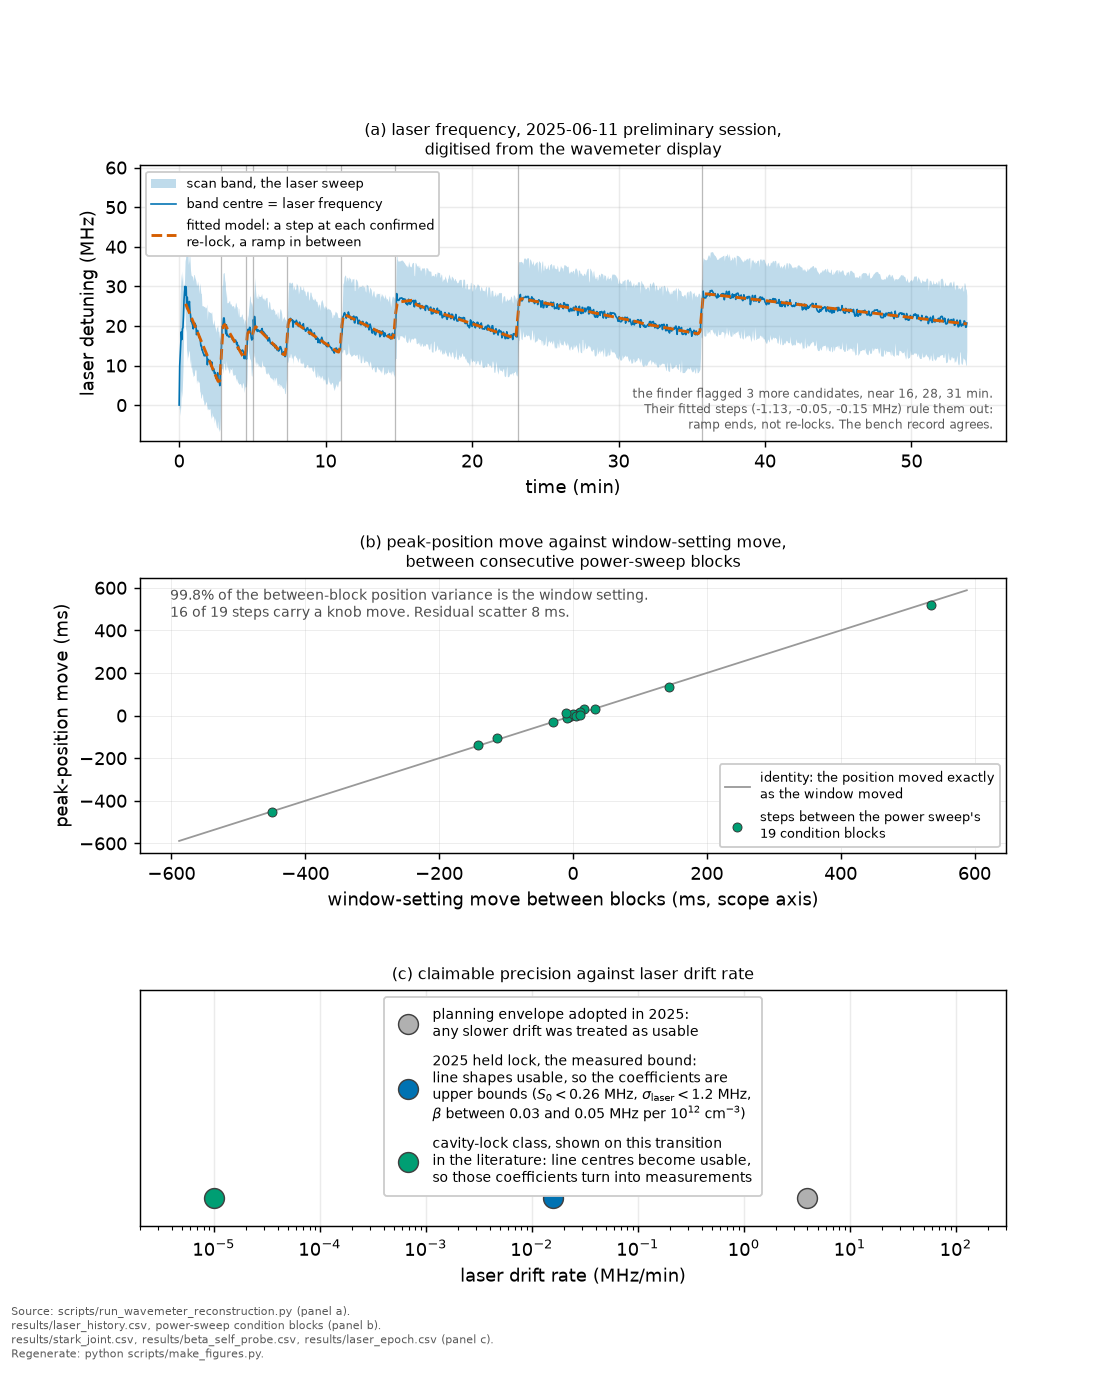
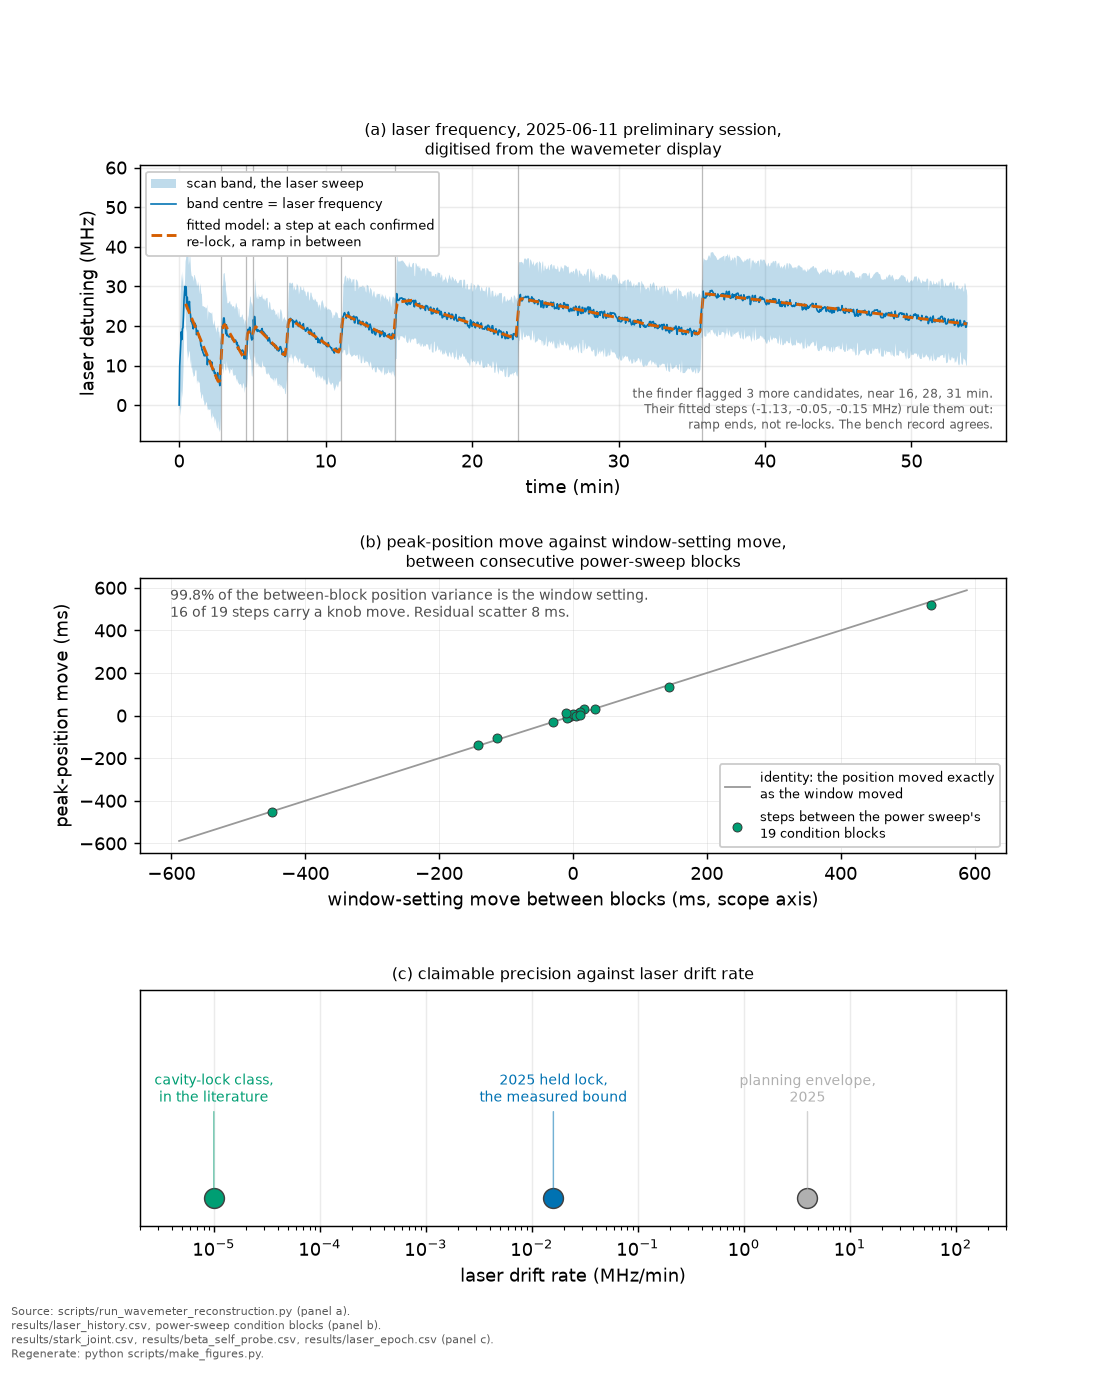
Correct a session-wide misdating, and make two figures say what they draw (archive ace92901)
Thirteen of the fourteen files were byte-identical to the archive at
baseline and were copied. tests/test_version_surface.py is divergent and
its one date was hand-carried. Zero 2026-08-15 remains in this tree.

Changed region(s): [[0.3345, 0.7177, 0.7299, 0.8737], [0.1521, 0.7801, 0.2433, 0.8113]]

diff --git a/scripts/make_figures.py b/scripts/make_figures.py
@@ -593,7 +593,7 @@ def fig_power_sweep():
     # anchored at axes-fraction 0.97 with no ylim set, so the axes autoscaled
     # to the data and the 993.4154 nm error bar at 25 mW (5.4927 +/- 0.0785,
     # so reaching 5.571) ran straight through the first line of it. Pixel
-    # inspection of the shipped PNG on 2026-08-15 found the whisker occupying
+    # inspection of the shipped PNG on 2026-08-14 found the whisker occupying
     # the same pixels as all three lines of the annotation. Three text lines at
     # 7.4 pt need roughly a fifth of this panel, so the top limit is lifted to
     # clear them instead of moving the text somewhere the data may grow into.
@@ -2575,6 +2575,12 @@ def fig_wavemeter_reconstruction():
     ax1.set_xlabel("time (min)")
     ax1.set_ylabel("laser detuning (MHz)")
     ax1.legend(loc="lower right", fontsize=7.5, frameon=True, framealpha=0.9)
+    # THE EVENT COUNT, computed at draw time from the drawn events. A frozen
+    # preregistration records that this panel prints it; it did not, and the
+    # frozen text is never edited, so the figure is what changes.
+    ax1.text(0.015, 0.03, f"{len(r['kick_times'])} confirmed re-locks",
+             transform=ax1.transAxes, fontsize=7.4, color="0.30",
+             ha="left", va="bottom")
     ax1.set_title("(b) the digitised record and the fitted sawtooth", fontsize=8.5)
 
     # Two records, two time origins, so two panels. They used to share one
@@ -2671,14 +2677,11 @@ def fig_drift_story():
     rows = [x for x in _csv.DictReader(open(C.RESULTS_DIR / "laser_history.csv"))
             if x["flag"] == "canonical" and x["offset_mhz"]]
 
-    s0 = float(next(x["value"] for x in _csv.DictReader(open(C.RESULTS_DIR / "stark_joint.csv"))
-                    if x["quantity"] == "S0_225mW_ub95"))
-    bvals = [float(x["bound95_nscale"]) for x in _csv.DictReader(open(C.RESULTS_DIR / "beta_self_probe.csv"))
-             if x.get("headline") == "yes"]
-    # laser_epoch.csv was normalised on 2026-08-10: value_MHz became value and
-    # the inequality left the numeric column for the unit field.
-    sl = float(next(x["value"] for x in _csv.DictReader(open(C.RESULTS_DIR / "laser_epoch.csv"))
-                    if x["quantity"] == "sigma_laser_bound"))
+    # S0, sigma_laser and the beta range were read here to be printed inside
+    # panel (c)'s legend. That legend is gone (it covered the very marker it
+    # described) and the three numbers now live in the caption, which quotes
+    # the same committed CSVs, so reading them here would be a computation
+    # with no consumer.
 
     fig = plt.figure(figsize=(8.6, 10.6))
     gs = fig.add_gridspec(3, 1, height_ratios=[1.4, 1.4, 1.2], hspace=0.52)
@@ -2772,24 +2775,31 @@ def fig_drift_story():
     # middle one. Both were caught by looking. A legend cannot collide with
     # anything, and what this panel has to show is that the three regimes sit
     # five decades apart, which the markers do on their own.
+    # SHORT labels only. Every number these used to carry ($S_0$, sigma_laser,
+    # beta) is committed in results/ and quoted by the caption, so nothing is
+    # lost by taking it off the canvas.
     regimes = [
-        (envelope_mhz_per_min, "#B0B0B0",
-         "planning envelope adopted in 2025:\nany slower drift was treated as usable"),
-        (drift, "#0072B2",
-         "2025 held lock, the measured bound:\nline shapes usable, so the coefficients are\n"
-         f"upper bounds ($S_0<{s0:.2f}$ MHz, "
-         f"$\\sigma_\\mathrm{{laser}}<{sl:.1f}$ MHz,\n"
-         f"$\\beta$ between {min(bvals):.2f} and {max(bvals):.2f} MHz per "
-         "$10^{12}$ cm$^{-3}$)"),
-        (ayachitula_mhz_per_min, "#009E73",
-         "cavity-lock class, shown on this transition\nin the literature: "
-         "line centres become usable,\nso those coefficients turn into measurements"),
+        (envelope_mhz_per_min, "#B0B0B0", "planning envelope,\n2025"),
+        (drift, "#0072B2", "2025 held lock,\nthe measured bound"),
+        (ayachitula_mhz_per_min, "#009E73", "cavity-lock class,\nin the literature"),
     ]
-    for rate, col, lab in regimes:
+    # THE LEGEND WAS THE COLLISION. The comment above said a legend cannot
+    # collide with anything; the shipped PNG showed otherwise, because three
+    # multi-line prose entries at upper-center grew into a box that covered
+    # the middle marker, which is the measured bound and the whole point of
+    # the panel. Prose in a legend is prose on the canvas. Replaced by three
+    # SHORT direct labels at ONE height, each over its own marker, with the
+    # full statement moved to the caption where a qualifier belongs. The
+    # markers are three decades apart on a log axis, so short labels centred
+    # on them cannot reach each other.
+    for rate, col, short in regimes:
         ax.plot([rate], [0.0], "o", ms=11, color=col, mec="0.25", mew=0.8,
-                zorder=3, label=lab)
-    ax.legend(fontsize=7.6, loc="upper center", frameon=True, framealpha=1.0,
-              handletextpad=0.8, labelspacing=0.9, borderpad=0.7)
+                zorder=3)
+        ax.annotate(short, xy=(rate, 0.0), xytext=(rate, 1.15),
+                    textcoords="data", ha="center", va="bottom",
+                    fontsize=7.6, color=col,
+                    arrowprops=dict(arrowstyle="-", color=col, lw=0.8,
+                                    alpha=0.55, shrinkA=1.0, shrinkB=5.0))
     ax.set_xscale("log")
     ax.set_xlim(2e-6, 300.0)
     # room above the markers for the legend, which sits over empty axis
@@ -3663,7 +3673,7 @@ def fig_magic_wavelengths():
     crossings = []
     for r in magic_rows:
         lam = float(r["value"])
-        # THE BAND COMES FROM ITS OWN COLUMNS. Until 2026-08-15 this parsed it
+        # THE BAND COMES FROM ITS OWN COLUMNS. Until 2026-08-14 this parsed it
         # out of the free-text `unit` field with
         #     re.search(r"16-84% band ([\d.]+)\.\.([\d.]+) nm", r["unit"])
         # and fell back to (lam, lam) when that failed. The uncertainty wave had

diff --git a/tests/test_package_surface.py b/tests/test_package_surface.py
@@ -21,7 +21,7 @@ keep both. `ingest.load_manifest`, `rate_model.load_clock` and
 0.0, which each says in its own docstring so that a checkout without a
 quality or ruler run behaves as it did before.
 
-Until 2026-08-15 `RepoDataMissing` had no call site outside `config` at all,
+Until 2026-08-14 `RepoDataMissing` had no call site outside `config` at all,
 while three documents said otherwise, and the only test here exercised
 `require_repo_data` in isolation, so nothing would have noticed.
 """
@@ -118,7 +118,7 @@ def test_the_pure_modules_import_without_the_data_modules():
 def test_the_required_data_loaders_name_the_cause(tmp_path, monkeypatch):
     """The three loaders that genuinely need the repository say so when it is absent.
 
-    Added 2026-08-15. Until then `RepoDataMissing` had no call site outside
+    Added 2026-08-14. Until then `RepoDataMissing` had no call site outside
     `config` itself, so `ingest.load_manifest` and `rate_model.load_clock`
     raised a bare FileNotFoundError naming a path inside site-packages, which
     is the outcome that error class was written to prevent. The claim that

diff --git a/tests/test_pipeline_order.py b/tests/test_pipeline_order.py
@@ -1,6 +1,6 @@
 """The one-command reproduction must be able to finish.
 
-WHY THIS EXISTS. On 2026-08-15 `bash scripts/run_all.sh` was run end to end in
+WHY THIS EXISTS. On 2026-08-14 `bash scripts/run_all.sh` was run end to end in
 an isolated worktree, from the committed traces, for the first time. It failed
 after 27 stages with `KeyError: 'status'` in `make_figures.py`, because the
 runner called the status annotator LAST while `make_figures.py` and
@@ -64,7 +64,7 @@ def test_the_annotator_runs_before_everything_that_reads_its_column():
             f"{ANNOTATOR} is invoked at position {ann} but {consumer} runs at "
             f"{idx[0]}, so a clean `bash scripts/run_all.sh` reaches {consumer} "
             f"with freshly written CSVs that have no status column yet. That is "
-            f"the KeyError: 'status' crash of 2026-08-15. Order:\n"
+            f"the KeyError: 'status' crash of 2026-08-14. Order:\n"
             + "\n".join(f"  {i}: {s}" for i, s in enumerate(lines)))
 
 

diff --git a/tests/test_docs_canonical.py b/tests/test_docs_canonical.py
@@ -867,7 +867,7 @@ def test_advertised_test_counts_match_the_real_suite():
              if abs(int(n) - total) / total > 0.05]
     # A count does not have to sit beside the word "test" to mislead a reader.
     # The runnable block in methods.md carried "# 1160 fast tests" and "full
-    # 1293 incl. slow closures" until 2026-08-15, by which time both had
+    # 1293 incl. slow closures" until 2026-08-14, by which time both had
     # drifted by a factor of 1.8, and neither matched the pattern above: one
     # puts an adjective between the number and the noun, the other names no
     # noun at all. Any number on a line that runs pytest is advertising what

diff --git a/tests/test_version_surface.py b/tests/test_version_surface.py
@@ -257,7 +257,7 @@ def test_the_metadata_version_is_the_released_version():
 def test_the_citation_date_moves_with_the_citation_version():
     """`date-released` is the third field of the same shape as the first two.
 
-    Found 2026-08-15. `version` had advanced 3.6.0, 3.7.0, 3.8.0 across three
+    Found 2026-08-14. `version` had advanced 3.6.0, 3.7.0, 3.8.0 across three
     tagged releases while `date-released` sat at '2026-08-09' throughout, so
     the field GitHub's "Cite this repository" panel shows, and any harvester
     reads, described the wrong day for two of them. Nothing compared the two

diff --git a/tests/test_docs_no_duplicated_blocks.py b/tests/test_docs_no_duplicated_blocks.py
@@ -20,7 +20,7 @@ are excluded from the count, and the threshold sits above the largest
 legitimate prose repeat measured across every tracked document rather than
 at some round number.
 
-MEASURED BEFORE CHOOSING THE THRESHOLD (2026-08-15, both repositories, 177
+MEASURED BEFORE CHOOSING THE THRESHOLD (2026-08-14, both repositories, 177
 tracked `.md` each): exactly three files contained a repeated block of four
 or more identical non-blank lines. START_HERE at twenty-two,
 PREREGISTRATION_RESULTS at eight, and the ruler preregistration at six, the

diff --git a/tests/test_constants.py b/tests/test_constants.py
@@ -26,7 +26,7 @@ def _label_gap_laser_hz(label_a: str, label_b: str) -> float:
 
 def test_natural_width_value():
     # 1 / (2 pi * 45.57 ns) = 3492537.7 Hz = 3.4925 MHz on the transition
-    # axis. This asserted 3.4926e6 until 2026-08-15, a rounding of the
+    # axis. This asserted 3.4926e6 until 2026-08-14, a rounding of the
     # fourth decimal in the wrong direction, and the 2e-4 tolerance was
     # loose enough to pass anyway, so the guard was pinning a value the
     # code never produced. Tightened tenfold so it pins the real one.

diff --git a/figures/README.md b/figures/README.md
@@ -66,7 +66,7 @@ support instead of a citing passage.
 | `fig14_wavemeter_reconstruction.png` | the 2025-06-11 wavemeter record, the sawtooth model fitted to it, and the resulting floor on unmodelled laser motion | `make_figures.py` | [APPARATUS.md](../docs/APPARATUS.md), [PREREGISTRATION_RESULTS.md](../docs/PREREGISTRATION_RESULTS.md) |
 | `fig15_drift_story.png` | the drift problem photographed, the campaign record reconstructed from its own traces, and what each drift regime licenses | `make_figures.py` | [README.md](../README.md), [PLAN.md](../docs/PLAN.md) |
 | `fig16_fit_gallery.png` | the brightest campaign trace of each component against the committed shared model, with residuals, four panels in one frame | `make_figures.py` | [README.md](../README.md) |
-| `fig17_magic_wavelengths.png` | the 5S and 6S polarizabilities and their difference, with the three zero crossings and each crossing's 16 to 84 per cent Monte Carlo band, printed as a bracket under the crossing and shaded on the axis. The three bands differ by more than a factor of ten in width, 1.67 nm at 1204 nm against 0.13 nm at 1340, so at this scale the shading is narrower than the crossing line and the bracket is the readable form. Until 2026-08-15 the brackets were drawn zero-width, because the producer parsed the band out of a free-text field the uncertainty wave had already emptied | `make_figures.py` | [README.md](../README.md) |
+| `fig17_magic_wavelengths.png` | the 5S and 6S polarizabilities and their difference, with the three zero crossings and each crossing's 16 to 84 per cent Monte Carlo band, printed as a bracket under the crossing and shaded on the axis. The three bands differ by more than a factor of ten in width, 1.67 nm at 1204 nm against 0.13 nm at 1340, so at this scale the shading is narrower than the crossing line and the bracket is the readable form | `make_figures.py` | [README.md](../README.md) |
 | `fig18_single_4121.png` | one full-page panel for the 993.4121 nm component: the same trace and shared model as fig16, with a parameter box naming every number as shared or per-trace. The model is a Lorentzian core, natural plus collisional, convolved with a Gaussian envelope set by the laser line width and the transit time, with the detector's saturation included. The shared block holds at the widths common to the whole campaign, and only this trace's amplitude, centre and background are refit. Reading the box: a shared laser width is shared by every trace taken at this temperature in one session and the shared fit publishes no separate uncertainty for it, the same goes for the shared collisional width, the transit width is held fixed at the value the assumed geometry implies because the beam waist has not been measured, the fitted centre is on this trace's own scan axis whose origin is arbitrary, and where the reduced chi-squared falls below one the per-point noise assumed in the fit is conservative so the uncertainties beneath it are upper bounds | `make_figures.py` | deliberately not embedded. It is a sibling of `fig18_single_4192.png`, which [methods/04_the_composite_model.md](../docs/methods/04_the_composite_model.md) shows for one peak. Showing all four in the chapter would repeat the same statement four times, and a reader checking that the shape holds on the other peaks wants the files rather than the prose. Supports the composite lineshape model of [methods/04_the_composite_model.md](../docs/methods/04_the_composite_model.md), whose shared and per-trace split the parameter box states. This row is the caption for all four panels |
 | `fig18_single_4154.png` | the same panel for the 993.4154 nm component | `make_figures.py` | deliberately not embedded. It is a sibling of `fig18_single_4192.png`, which [methods/04_the_composite_model.md](../docs/methods/04_the_composite_model.md) shows for one peak. Showing all four in the chapter would repeat the same statement four times, and a reader checking that the shape holds on the other peaks wants the files rather than the prose. Supports [methods/04_the_composite_model.md](../docs/methods/04_the_composite_model.md), as above |
 | `fig18_single_4192.png` | the same panel for the 993.4192 nm component | `make_figures.py` | cited from [methods/04_the_composite_model.md](../docs/methods/04_the_composite_model.md), which now shows it. Supports [methods/04_the_composite_model.md](../docs/methods/04_the_composite_model.md), as above |

diff --git a/docs/PLAN.md b/docs/PLAN.md
@@ -206,11 +206,18 @@ record was once read as.
 a preliminary session, a wavemeter record read as a sawtooth of per-interval
 levels and ramps with one shared 2.6 s rise at each re-lock, the laser holding
 a reference that is itself still settling (no such log survives from the
-campaign itself). Middle: the campaign, reconstructed from its own traces. Line
-offsets are meaningful only within one scope-knob epoch, the spikes are re-lock
-events, and the held-lock drift is bounded at order 0.02 MHz/min on the laser
-axis with the sign undetermined, which is why shapes survive and centres do
-not. The oscilloscope window was moved 58 times over the campaign and each move
+campaign itself), with its twelve confirmed re-locks and the three candidates
+the finder rejected. Middle: peak-position move against window-setting move
+between consecutive power-sweep blocks, which is where the frame problem is
+visible: 99.8 per cent of the between-block position variance is the window
+setting, so line offsets are meaningful only within one scope-knob epoch. The
+held-lock drift is bounded at order 0.02 MHz/min on the laser axis with the
+sign undetermined, which is why shapes survive and centres do not. Bottom: the
+three lock regimes, three decades apart. At the 2025 held lock the line shapes
+stay usable and the coefficients are therefore upper bounds (S₀ < 0.26 MHz, β
+between 0.03 and 0.05 MHz per 10¹² cm⁻³). In the cavity-lock class shown on this
+transition in the literature, line centres become usable and those same
+coefficients would turn into measurements. The oscilloscope window was moved 58 times over the campaign and each move
 re-zeroes the offset axis, so only the widths and shapes of the individual traces
 carry information. Each vertical stroke is that trace's own scan ramp drawn to
 scale, which is a sweep extent and not an uncertainty. The inset is drawn for

diff --git a/docs/DATA.md b/docs/DATA.md
@@ -732,7 +732,7 @@ the brief, and they moved no headline number.
   hence a *bound* (2026-07-12).** THE FIGURES IN THIS ENTRY ARE AS MEASURED ON
   ITS OWN DATE and the pipeline has been refit since, so read the current
   values from `results/lever_crosscheck.csv` rather than from here. As of
-  2026-08-15 that file gives the 4-peak mean γ_coll as 0.404 / 0.390 / 0.444 /
+  2026-08-14 that file gives the 4-peak mean γ_coll as 0.404 / 0.390 / 0.444 /
   0.594 MHz and the rise as ×1.47 over a density ratio of ×52.5, and the joint
   β as 0.0198 (⁸⁵Rb) and 0.0219 (⁸⁷Rb) against a headline 0.0534. The direction
   and the conclusion are unchanged, which is why the entry stands: ×1.47 across

diff --git a/docs/STYLE.md b/docs/STYLE.md
@@ -196,7 +196,7 @@ third:
   copy acknowledging the other. `data_raw/README.md` is the worked example
   and is the reason the first route has somewhere to point.
 
-A REPLACEMENT EARNS THE SAME TEST. On 2026-08-15 a batch of sentences of this
+A REPLACEMENT EARNS THE SAME TEST. On 2026-08-14 a batch of sentences of this
 kind was corrected, and the first replacement written for `START_HERE.md`
 said the fast suite needs no data because the tests that matter are synthetic.
 True in the published copy. False in the one with the traces, where the
